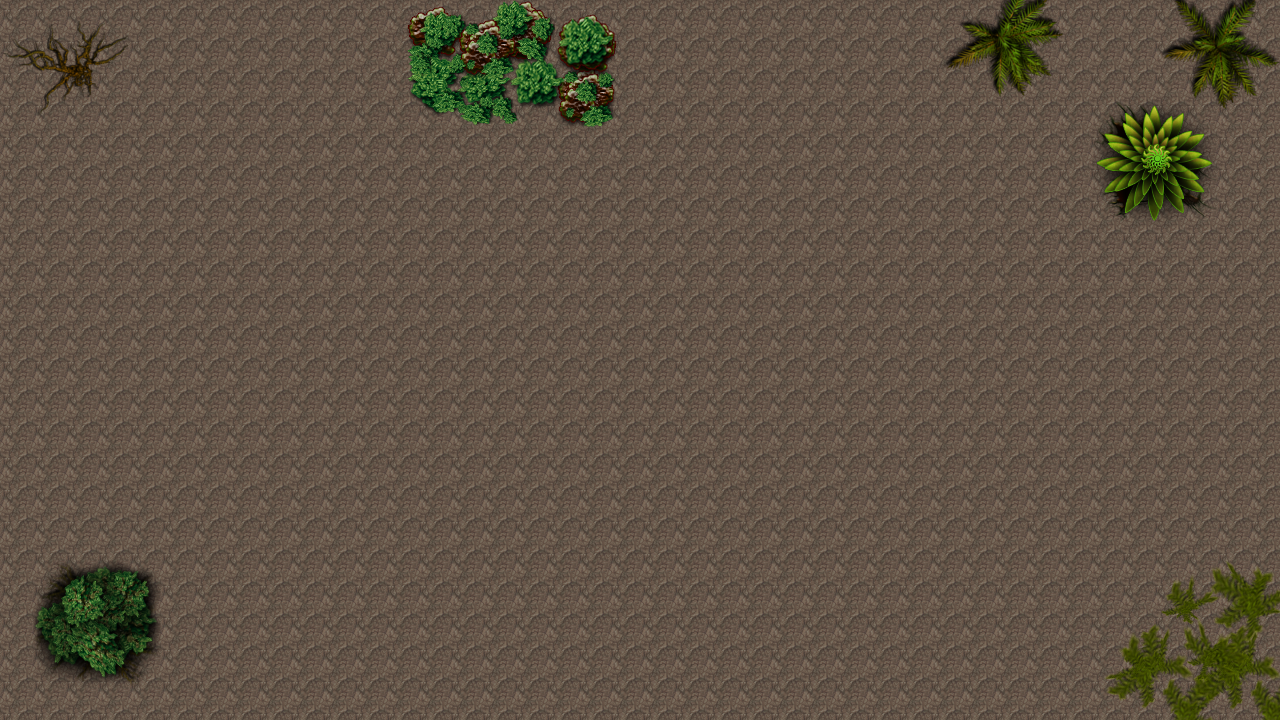
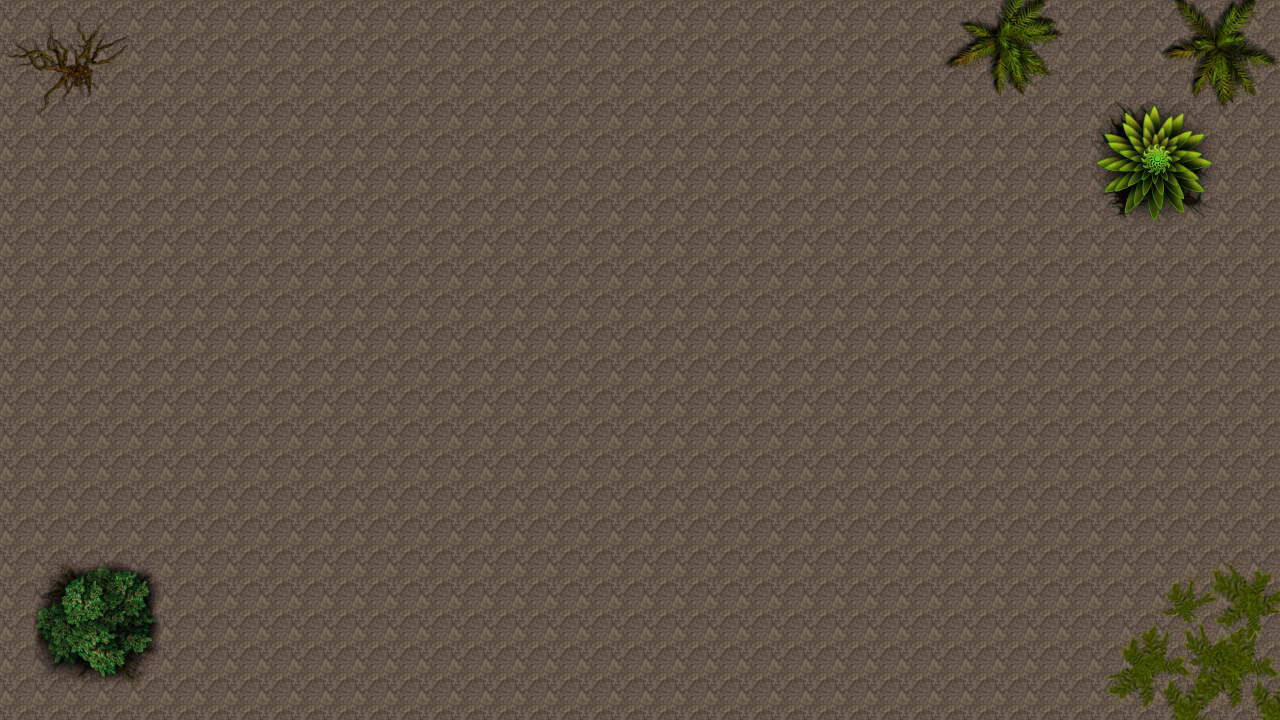
Player score and modified the background

Changed region(s): [[0.3125, 0.0, 0.5, 0.1833]]

diff --git a/MageTwinstick/MageTwinstick/GameWorld.cs b/MageTwinstick/MageTwinstick/GameWorld.cs
@@ -95,10 +95,8 @@ namespace MageTwinstick
             percentage = (300f/100f)*pl.Mana;
             dc.FillRectangle(Brushes.Blue, new Rectangle(display.Right - 310, 10, Convert.ToInt32(percentage), 50));
             dc.DrawRectangle(p, new Rectangle(display.Right - 310, 10, 300, 50));
-
-#if DEBUG
-            dc.DrawString(string.Format("{0}, {1}, {2}", Convert.ToString(currentFps), Mouse.X, Mouse.Y), f, Brushes.Black, 10, 100);
-#endif
+            f = new Font("Arial", 30);
+            dc.DrawString(Convert.ToString(pl.Score), f, Brushes.Black, display.Width / 2 - 50, 10);
 
             backBuffer.Render();
         }

diff --git a/MageTwinstick/MageTwinstick/Player.cs b/MageTwinstick/MageTwinstick/Player.cs
@@ -9,7 +9,8 @@ namespace MageTwinstick
     {
         //Properties
         public double Mana { get; set; }
-       
+        public float Score { get; set; } = 0;
+
         public Player(float speed, int health, string imagePath, Vector2D startPos, Rectangle display, float animationSpeed) : base(speed, health, imagePath, startPos, display, animationSpeed)
         {
             Mana = 100;

diff --git a/MageTwinstick/MageTwinstick/Enemy.cs b/MageTwinstick/MageTwinstick/Enemy.cs
@@ -33,6 +33,7 @@ namespace MageTwinstick
 
             if (Health <= 0)
             {
+                player.Score += 100;
                 GameWorld.ObjectsToRemove.Add(this);
                 double r = random.Next(0, 101);
                 if (r > 90)
